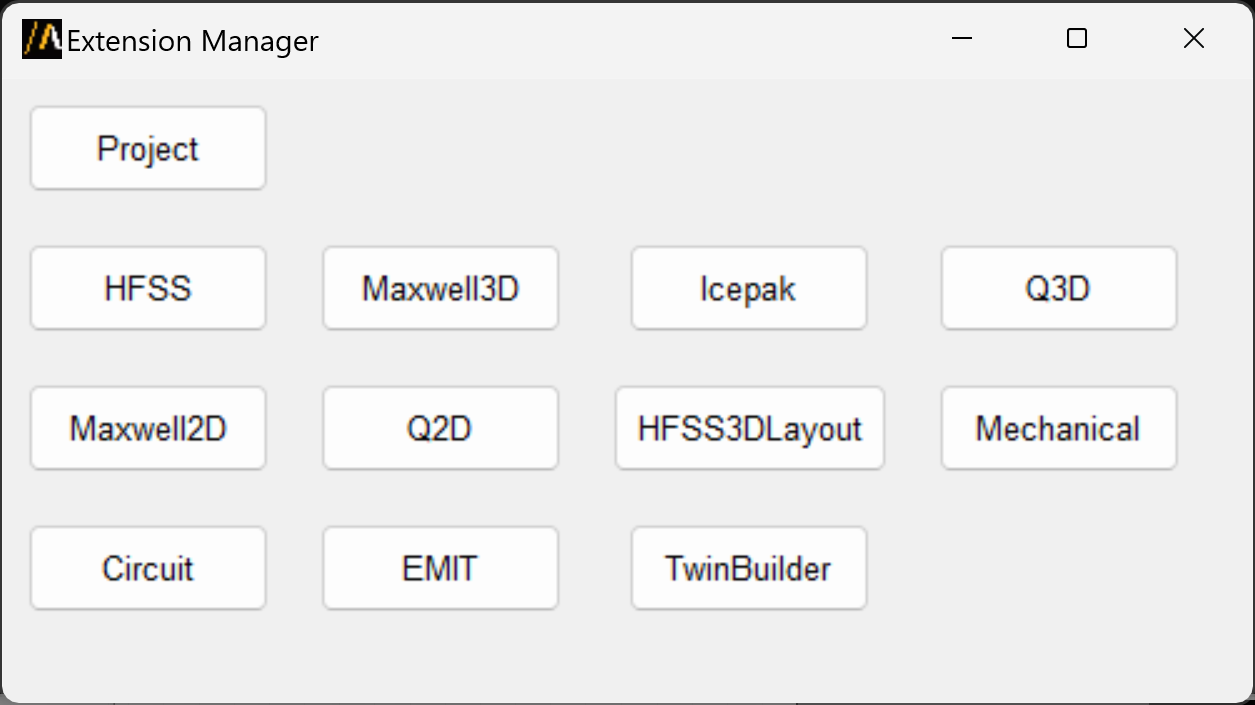
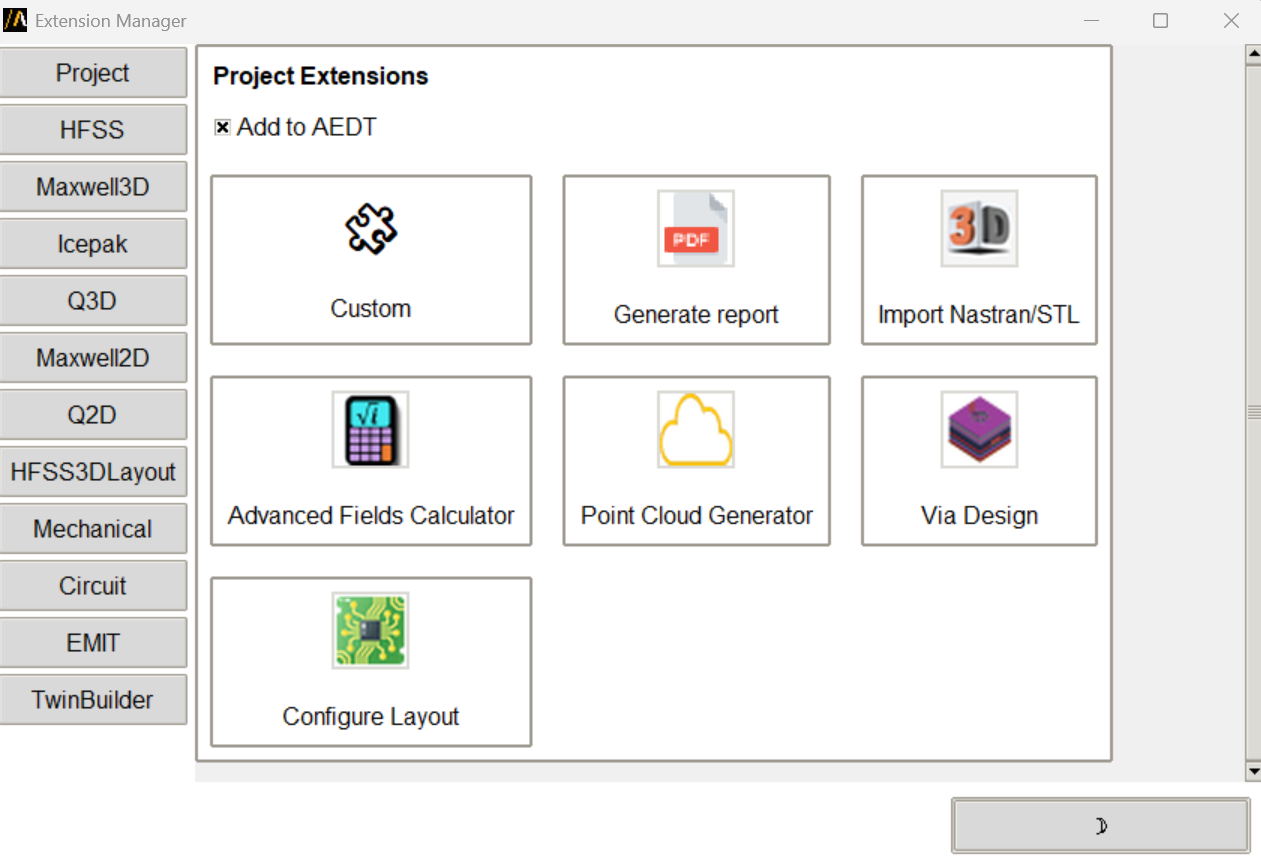
Add documentation

diff --git a/doc/source/Getting_started/Installation.rst b/doc/source/Getting_started/Installation.rst
@@ -49,7 +49,7 @@ If you have installation problems, visit :ref:`Troubleshooting<panel_error>`.
 Extension manager
 ~~~~~~~~~~~~~~~~~
 
-The user can install or uninstall automated workflows using the extension manager.
+The user can launch automated workflows and add them to the AEDT Automation tab using the extension manager.
 There are three options:
 
 - **Pre-installed extensions** already available in the PyAEDT library.
@@ -64,13 +64,16 @@ See `Extension Manager <https://aedt.docs.pyansys.com/version/stable/User_guide/
   :width: 800
   :alt: PyAEDT toolkit manager 1
 
-The user can select the AEDT application to install the specific workflow.
+The user can select the AEDT application to launch the specific workflow.
 
 .. image:: ../Resources/toolkit_manager_2.png
   :width: 400
   :alt: PyAEDT toolkit manager 2
 
-Once the toolkit is installed, its icon only appears in the ribbon when you either create a new design or open an existing one that is compatible with the toolkit. Toolkit icons are visible only within the corresponding design environment.
+If the `Add to AEDT` checkbox is selected, the extension appears in the ribbon when you either create a new design or open an existing one that is compatible with the extension.
+Extension icons are visible only within the corresponding design environment.
+
+If you right click in the extension, you can delete it from the AEDT Automation tab.
 
 For additional information about AEDT extensions, 
 see `Extensions <https://aedt.docs.pyansys.com/version/stable/User_guide/extensions.html>`_.

diff --git a/doc/source/User_guide/extensions.rst b/doc/source/User_guide/extensions.rst
@@ -284,30 +284,24 @@ Here are some links to existing toolkits:
 Now, you need to download the installer from the Releases section of each toolkit.
 You can access it by clicking the "Install" button in the corresponding repository.
 
-After installing it, you can add the toolkit to AEDT as a Custom extension by pointing to the .exe file.
-
-.. image:: ../Resources/toolkit_manager_3.png
-  :width: 500
-  :alt: PyAEDT toolkit manager 3
-
 
 Custom extensions
 -----------------
 
 Custom extensions are custom workflows (Python script) that can be installed both at project and application level.
-From the Extension manager select the target destination:
+From the Extension manager select the target destination and `Custom` as the extension type:
 
 .. image:: ../Resources/toolkit_manager_1.png
   :width: 500
   :alt: PyAEDT toolkit manager 1
 
-Select `Custom` as the extension type.
-Provide the path of the Python script containing the workflow.
+Provide the path of the Python script containing the workflow. If you do not specify any script, the template is assigned.
+
 Enter the extension name. This is the name that appears beneath the button in the Automation tab after a successful installation.
 
-.. image:: ../Resources/my_custom_extension.png
+.. image:: ../Resources/toolkit_manager_2.png
   :width: 500
-  :alt: Custom Extension
+  :alt: PyAEDT toolkit manager 2
 
 After the normal completion of the installation a new button appears:
 
